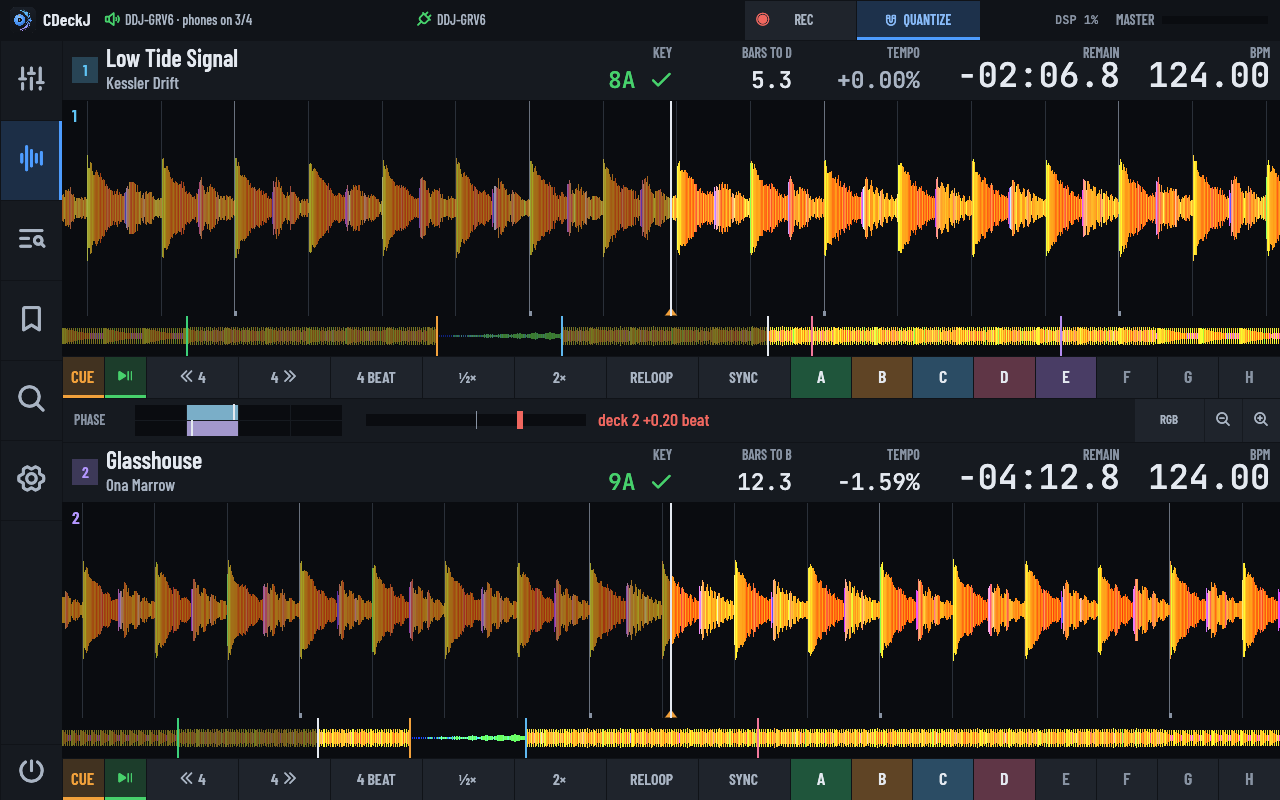
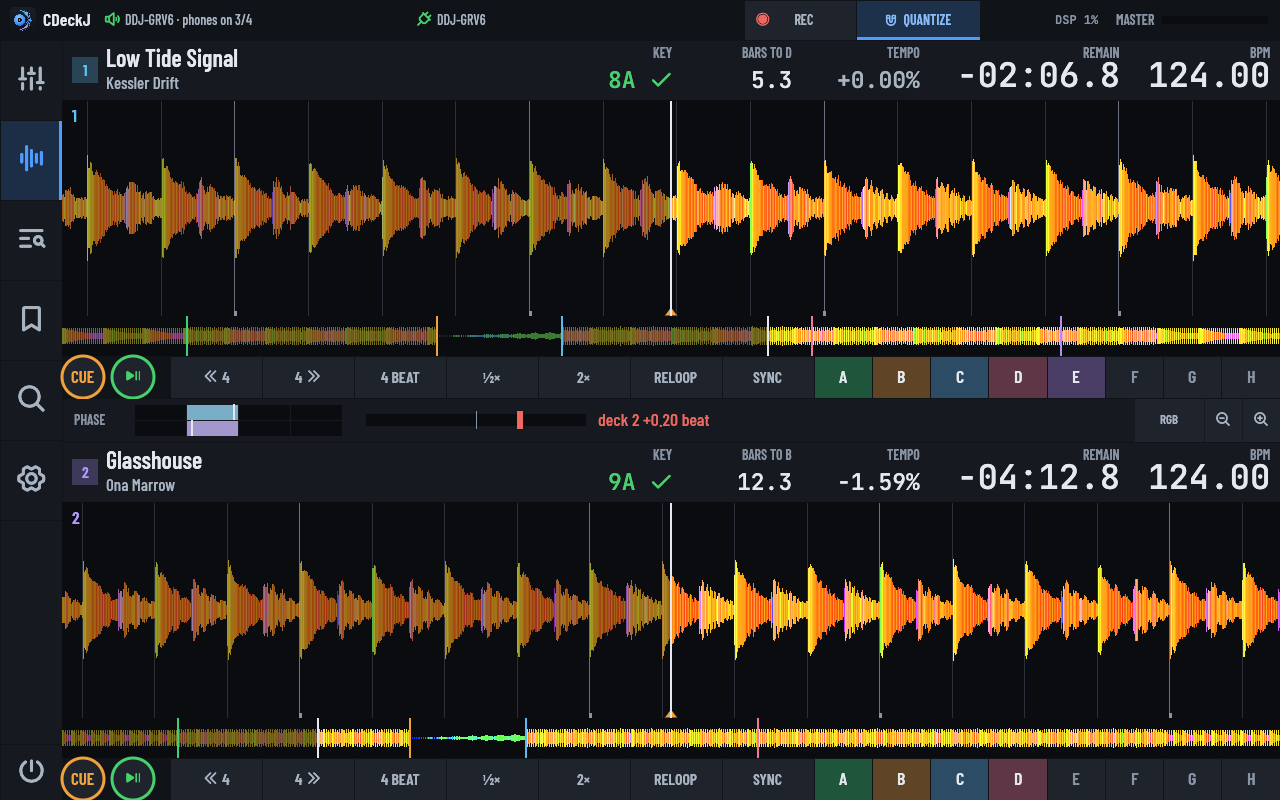
Keep CUE and PLAY round, like the controller's buttons
They go back to circles with the coloured ring, with space around them;
the hot cue pads stay flush and square.

diff --git a/src/ui/panels/deck.rs b/src/ui/panels/deck.rs
@@ -244,8 +244,8 @@ impl App {
         let ctl = Rect::from_min_max(pos2(inner.min.x, y), inner.max);
         // Pads keep a usable width (≥ 44 pt) on narrow windows: the jog gives way first.
         let fader_w = 26.0;
-        let bsize = (ctl.height() / 2.0).min(if ctl.width() < 400.0 { 54.0 } else { 60.0 });
-        let fixed = 12.0 + bsize + 10.0 + fader_w;
+        let bsize = ((ctl.height() - 8.0) / 2.0).min(if ctl.width() < 400.0 { 54.0 } else { 60.0 });
+        let fixed = 12.0 + bsize + 12.0 + 10.0 + fader_w;
         let pads_min = 4.0 * 44.0;
         let jog_max = ctl.height().min(132.0).max(1.0);
         // (not clamp: on a tiny first frame the max can fall below the min)
@@ -265,15 +265,15 @@ impl App {
         p.text(pos2(fader.center().x, fader.max.y), Align2::CENTER_BOTTOM, "+", semi(13.0), t::INK_FAINT);
 
         // CUE / PLAY (act on press, like the hardware; two fingers can hold CUE and hit PLAY).
-        // Flush with the pads, so the two read as one block of keys of the pads' height.
+        // Round like the controller's; the pads beside them sit flush as one block.
         let bx = jog.max.x + 12.0;
-        let gx = bx + bsize;
+        let cue_r = Rect::from_min_size(pos2(bx, ctl.center().y - bsize - 4.0), vec2(bsize, bsize));
+        let play_r = Rect::from_min_size(pos2(bx, ctl.center().y + 4.0), vec2(bsize, bsize));
+        let gx = bx + bsize + 12.0;
         let pw = ((fader.min.x - 10.0 - gx) / 4.0).min(ctl.height() / 2.0);
         // Narrow pads grow taller instead, up to square-ish 52 pt.
         let ph = pw.max(52.0f32.min(ctl.height() / 2.0));
         let gy = ctl.center().y - ph;
-        let cue_r = Rect::from_min_size(pos2(bx, gy), vec2(bsize, ph));
-        let play_r = Rect::from_min_size(pos2(bx, gy + ph), vec2(bsize, ph));
         let blink = (ui.input(|i| i.time) * 2.0) as i64 % 2 == 0;
         let cue_lit = dv.loaded && (dv.playing || dv.at_cue || blink);
         let play_lit = dv.playing || dv.previewing || (dv.loaded && blink);

diff --git a/src/ui/widgets.rs b/src/ui/widgets.rs
@@ -136,7 +136,7 @@ pub(crate) fn button_resp(ui: &Ui, tc: &mut Touches, r: Rect, id: Id, label: &st
     (c, resp)
 }
 
-/// A big square transport button. With `icon`, the icon (solid) is drawn and `label` only names it.
+/// A round transport button. With `icon`, the icon (solid) is drawn and `label` only names it.
 #[allow(clippy::too_many_arguments)]
 pub(crate) fn round_button(ui: &Ui, tc: &mut Touches, r: Rect, id: Id, label: &str, icon: Option<&str>, col: Color32, lit: bool) -> crate::ui::touch::Ctl {
     let l = label.to_string();
@@ -144,15 +144,16 @@ pub(crate) fn round_button(ui: &Ui, tc: &mut Touches, r: Rect, id: Id, label: &s
     let p = ui.painter();
     let center = r.center();
     let rad = r.width().min(r.height()) / 2.0;
-    let fill = if lit { col.gamma_multiply(if c.down { 0.35 } else { 0.22 }) } else if c.down { t::HOVER } else { t::RAISED };
-    tile(p, r, fill);
-    lit_bar(p, r, if lit { col } else { col.gamma_multiply(0.25) });
+    p.circle_filled(center, rad, if c.down { t::HOVER } else { t::RAISED });
+    p.circle_stroke(center, rad - 1.5, Stroke::new(3.0, if lit { col } else { col.gamma_multiply(0.25) }));
     let ink = if lit { col } else { t::INK_MUTED };
     match icon {
         Some(i) => p.text(center, Align2::CENTER_CENTER, i, icons::fill(rad * 0.78), ink),
         None => p.text(center, Align2::CENTER_CENTER, label, semi(sz(15.0, 17.0)), ink),
     };
-    focus_ring(p, r, &resp, t::R_CONTROL);
+    if resp.has_focus() {
+        p.circle_stroke(center, rad + 3.0, Stroke::new(2.0, t::ACCENT));
+    }
     c
 }
 

diff --git a/src/ui/views/wave.rs b/src/ui/views/wave.rs
@@ -115,14 +115,14 @@ impl App {
             self.send(Cmd::Cue(d, true));
             self.send(Cmd::Cue(d, false));
         }
-        x += h;
+        x += h + 8.0;
         let play_r = Rect::from_min_size(pos2(x, cr.min.y), vec2(h, h));
         let pc = round_button(ui, &mut self.touches, play_r, Id::NULL.with(("wplay", d)), "PLAY", Some(crate::ui::icons::PLAY_PAUSE), t::PLAY, dv.playing || (dv.loaded && blink));
         if (pc.down && !self.decks[d].play_held) || pc.key {
             self.send(Cmd::Play(d));
         }
         self.decks[d].play_held = pc.down;
-        x += h;
+        x += h + 16.0;
         let jump = self.config.beat_jump;
         let jb = crate::rekordbox::settings::fmt_beats(jump);
         let btns: [(String, Option<Color32>, Cmd, &str); 7] = [
